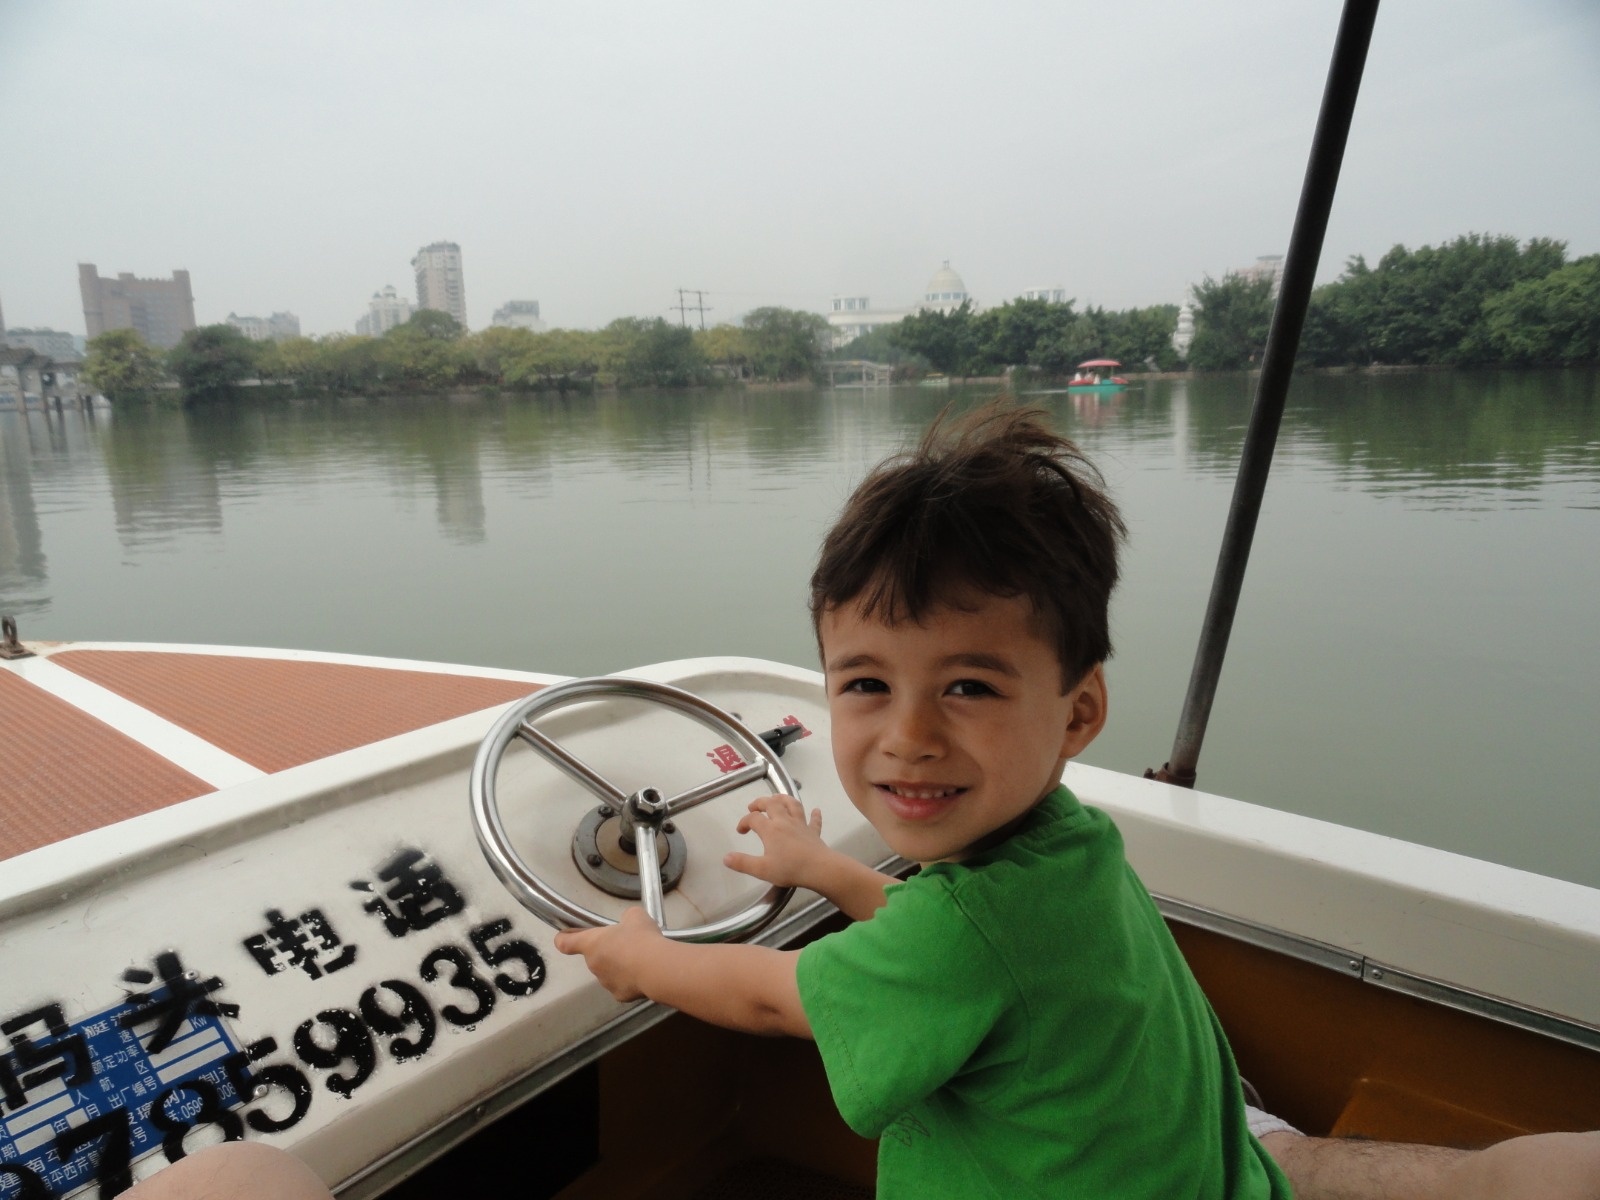
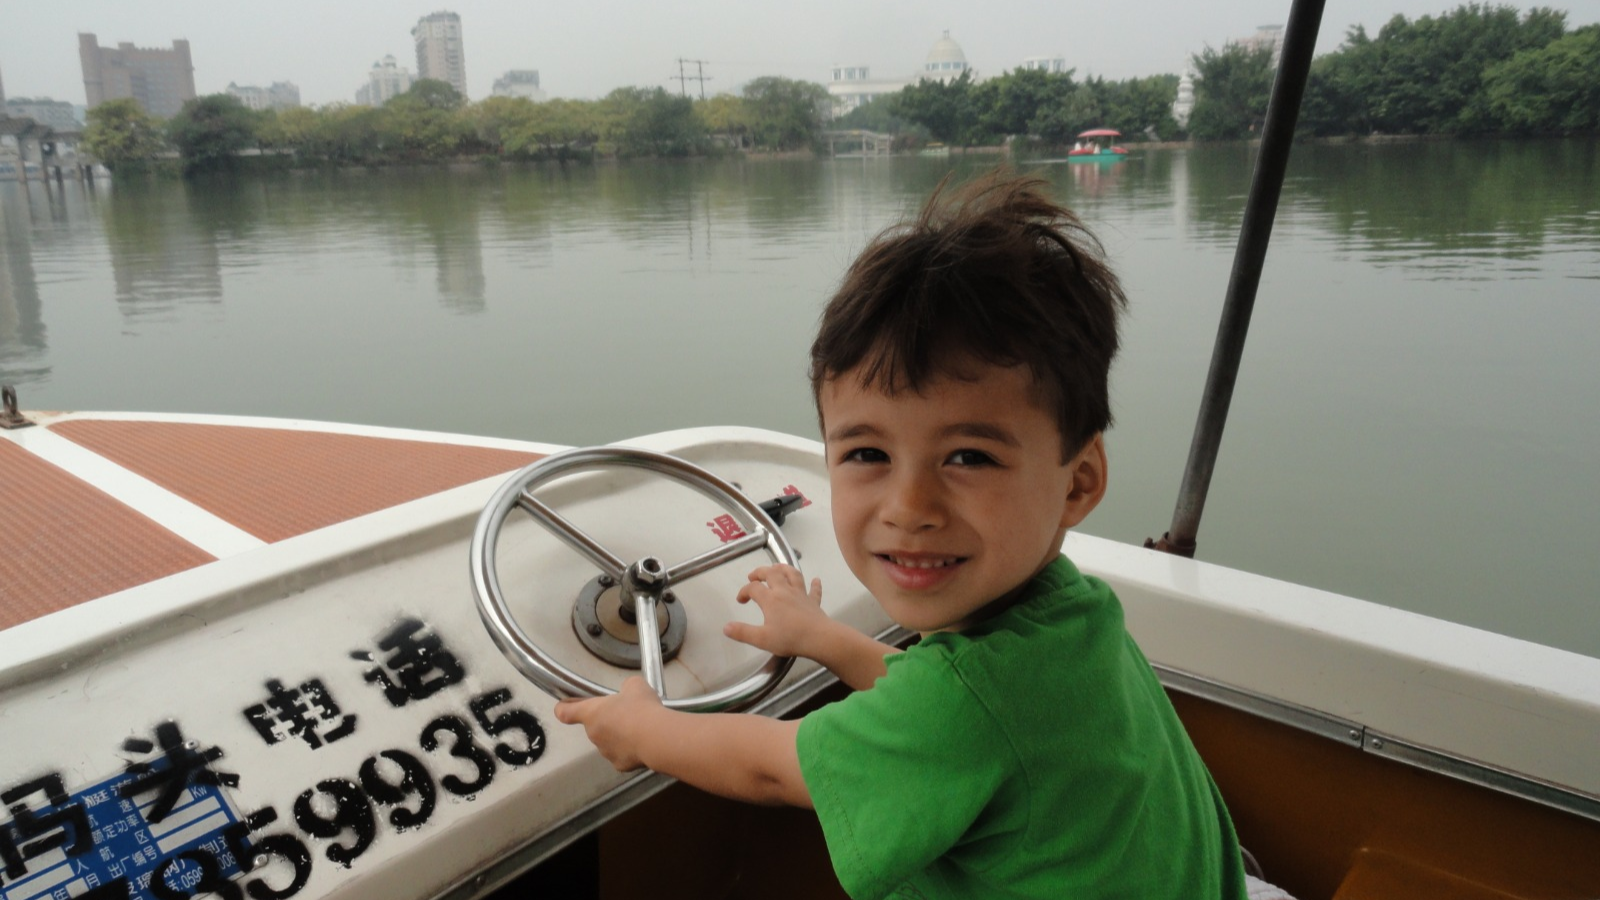
About Me Paragraphs

diff --git a/me.html b/me.html
@@ -161,7 +161,7 @@
 										<div class="col-8">
 											<h4>About Me</h4>
 											<p class="unjustify-text">
-												The man behind the mechanical engineer.
+												The man behind the mechanical engineer. <br> The philisophy behind <span style="font-style: italic;">the Paul.</span>
 											</p>
 										</div>
 									</a>
@@ -173,7 +173,7 @@
 										<div class="col-8">
 											<h4>Education</h4>
 											<p class="unjustify-text">
-												University of Edinburgh & University of Minnesota
+												The myriad of small choices that defined my path.
 											</p>
 										</div>
 									</a>
@@ -202,18 +202,24 @@
 						<header>
 							<div class="quote-hover-area">
 								<div class="quote-text-wrapper">
-								<a id="me" class="quote-link">
-									"It's a truly lucky man who knows what he wants to do in this world. Cause that man will never work a day in his life." <span class="quote-author">-Carroll Shelby</span>
-								</a>
+									<a id="me" class="quote-link">
+										"It's a truly lucky man who knows what he wants to do in this world. Cause that man will never work a day in his life." <span class="quote-author">-Carroll Shelby</span>
+									</a>
 								</div>
 
-								<img 
-								src="images/Me/Me/boat1.png" 
-								class="quote-vignette-image" 
-								alt="Quote background"
-								>
+								<img src="images/Me/Me/boat1.png" class="quote-vignette-image">
 							</div>
 						</header>
+
+						<p class="unjustify-text">
+							I've always been fueled by passion. When I was a kid, I built a 15-foot long boat out of duct tape and PVC pipe; 
+							I had a scale model of the Minneapolis airport on the floor of my living room with a suite of small model Delta aircraft to match;
+							and I had a prized Mustang hotwheels model that I adored with all my heart. Ten year old me wanted to be an airline pilot, a professional racecar driver, and an olympic sailor all at the same time while also being a historian, a film director, an entrepreneur, a computer scientist, a songwriter, and a time-travelling roman centurion.
+							<br><br>
+							Ten years later, my goals may have changed, but my passion has not.
+							<br>
+
+						</p>
 
 						<article id="main">
 
@@ -234,28 +240,92 @@
 							</div>
 
 
-							<p class="unjustify-text">
-								I study mechanical engineering at the University of Edinburgh and studied computer science, mechanical engineering, and aerospace engineering at the University of Minnesota for four years for my secondary school education. Finally, I am also an amateur cinematographer, avid motorsports driver, self-taught pianist and guitarist, and 70's classic rock enthusiast.
-								<br>
 
+							<header>
+								<div class="quote-hover-area">
+									<div class="quote-text-wrapper">
+										<a id="me" class="quote-link">
+											"Our lives are the sum of our choices." <span class="quote-author"><br>-Eugene Kittridge</span>
+										</a>
+									</div>
+
+									<img src="images/Me/Me/boat2.jpg" class="quote-vignette-image">
+								</div>
+							</header>
+
+							<p class="unjustify-text">
+								
+								
+
+							</p>
+							
+							
+							<header>
+								<div class="quote-hover-area">
+									<div class="quote-text-wrapper">
+										<a id="me" class="quote-link">
+											"Only you invent the future that you want to face." <span class="quote-author"><br>-Fleetwood Mac</span>
+										</a>
+									</div>
+
+									<img src="images/Me/Me/car2.jpeg" class="quote-vignette-image">
+								</div>
+							</header>
+
+							<p class="unjustify-text">
+								
+								
+								
 
 							</p>
 
 							<header>
 								<div class="quote-hover-area">
 									<div class="quote-text-wrapper">
-									<a id="me" class="quote-link">
-										<br>"Our lives are the sum of our choices." <span class="quote-author"><br>-Eugene Kittridge</span>
-									</a>
+										<a id="me" class="quote-link">
+											"I started subtracting things from my life, and started getting good at the things that I kept." <span class="quote-author"><br>-Hans Zimmer</span>
+										</a>
 									</div>
 
-									<img 
-									src="images/Me/Me/boat2.jpg" 
-									class="quote-vignette-image" 
-									alt="Quote background"
-									>
+									<img src="images/Me/Me/plane1.jpg" class="quote-vignette-image">
 								</div>
 							</header>
+
+							<p class="unjustify-text">
+								Life moves pretty fast. If you don't stop and look around once in a while, you could miss it.
+								<br><br>
+								All my life, I've taken pride in being independent and different. I didn't go to regular school, and I didn't always follow the well-trodden corridors most people did. I took up competitive sailing, developed a taste for old-fashioned music, and decided to spend two years earning my pilot's licence simply because I enjoyed it and wanted to.
+								<br><br>
+								I don't use social media or participate in the endless stream of online viral trends. I don't think it's a good use of my time to constantly try to keep up with what's popular or to stay knowledgeable about things people might expect me to know. I'd rather spend that time on things I genuinely care about.
+								<br><br>
+								I vividly remember the moment I became interested in older music. My parents were watching cable TV, and there was a news segment about the song <span style="font-style: italic;">House of the Rising Sun</span> by The Animals. Later, I decided to listen to it. I remember thinking, “Hey, I actually really like this song. Too bad I can't like this kind of music”. And then, almost immediately, I realised how strange that thought was. Why couldn't I? In that moment, it hit me that I had complete freedom to like whatever I liked, not just whatever happened to be popular at the time. Since then, my classic music playlist has grown to over 600 songs spanning 50 playtime hours.
+
+							</p>
+
+							<header>
+								<div class="quote-hover-area">
+									<div class="quote-text-wrapper">
+										<a id="me" class="quote-link">
+											"I've never once lived my life out of convenience." <span class="quote-author"><br>-Paul Wang</span>
+										</a>
+									</div>
+
+									<img src="images/Me/Me/car1.jpg" class="quote-vignette-image">
+								</div>
+							</header>
+
+							<p class="unjustify-text">
+								Life is not a task to optimise. It doesn't need to be streamlined for highest productivity or least effort. 
+								I talk a lot about dreaming big and not giving up, but I also try to remember to slow down and actually enjoy life. I think there's real value in things that might look “meaningless” from the outside.
+								<br><br>
+								Everything from my favourite movies to my music taste to the way I dress reflects that core value of not trying to fit in, but instead doing what I enjoy. I could just shuffle the Spotify Top 40 or binge short-form videos, which would definitely be easier. Instead, I'll listen all the way through a Led Zeppelin or Journey album, or I'll sit down and watch a Denis Villeneuve film and really understand and analyse its meaning. Sure, I could have used Wix or Squarespace to make this website, yet here I sit with a CSS file 6,000 lines long.
+								<br><br>
+								Recently, it feels like fewer people have hobbies, or at least fewer people talk about them openly. I don't believe in being nonchalant or trying to seem cool by not caring. I'd much rather be passionate, even a little eccentric, about the things that interest me. So when I come home and decide to learn about Roger Deakins' method of lighting a movie scene, it might not be the most convenient or productive thing to do, but I do it because I'm genuinely interested. And in its own way, that shapes my interests and my character.
+								<br><br>
+								On a bigger scale, my choice to move to another continent and leave everything behind, the comfort and convenience of my home and friends, speaks to my philisophy that doing something because it's the easiest doesn't make it the best. 
+								<br><br>
+								When it comes down to it, I always take the scenic route home.
+							</p>
 
 							
 							<hr />
@@ -313,7 +383,7 @@
 										</div>
 
 										<p class="project-description-body">
-											– 3 Dean’s List Honours, LPE: Portuguese Language Proficiency <br>
+											– 3 Dean's List Honours, LPE: Portuguese Language Proficiency <br>
 											– Completed 17 university classes with 70 US credits. Normal university
 											classes taken full time as secondary school credit. <br>
 											– Followed the UMN Mechanical Engineering & Computer Science degree tracks,
@@ -437,7 +507,7 @@
 												<p class="unjustify-text">
 													I had the pleasure of working with Paul Wang during the 2024–2025 Formula Student season at the University of Edinburgh, where I served as Technical Director and Paul worked as a Vehicle Dynamics Engineer and later as a <span class="rec-emph">lead suspension designer</span>. Edinburgh University Formula Student (EUFS) designs and manufactures single-seater open-wheel race cars and is the current long-standing champion in the FS-AI class as of this year, 2025.<br><br>
 
-													Paul made a huge contribution to our growing Vehicle Dynamics team. He was responsible for modelling and designing suspension assemblies in Simscape and SolidWorks, as well as developing key infrastructure by creating an in-house suspension geometry optimiser from scratch using Simscape multibodies. His optimiser, paired with our in-house lap time simulator, enabled us to validate and quantify the performance benefits of multiple suspension geometries. His work was a key influence on our final designs presented at FSUK 2025, <span class="rec-responsibility">where the judges commended the depth and robustness of his models</span>, <span class="rec-emph">a contribution that helped secure the team’s 6th place finish</span>. He was the youngest member of the design team.<br><br>
+													Paul made a huge contribution to our growing Vehicle Dynamics team. He was responsible for modelling and designing suspension assemblies in Simscape and SolidWorks, as well as developing key infrastructure by creating an in-house suspension geometry optimiser from scratch using Simscape multibodies. His optimiser, paired with our in-house lap time simulator, enabled us to validate and quantify the performance benefits of multiple suspension geometries. His work was a key influence on our final designs presented at FSUK 2025, <span class="rec-responsibility">where the judges commended the depth and robustness of his models</span>, <span class="rec-emph">a contribution that helped secure the team's 6th place finish</span>. He was the youngest member of the design team.<br><br>
 
 													<span class="rec-workethic"> What stood out most about Paul was his initiative and reliability.</span> He demonstrated strong research skills, resourcefulness, and initiative that accelerated his progression to a lead designer. <span class="rec-workethic">I worked with him on multiple projects, and he was consistently the first to offer support whenever it was needed, regardless of the task. On one occasion, he came directly from a ten-hour flight to the lab to assist when we were short-handed for an urgent tyre repair.</span> His ability to work well both independently and collaboratively makes him well suited for any engineering position.<br><br>
 													
@@ -550,16 +620,16 @@
 													The students were required to participate in current events and read a large amount of text every
 													night. I am confident Paul completed the readings based on his thoughtful comments in class.
 													Further, students wrote a policy memo summarizing the key findings in the 2018 National Cyber
-													Strategy/President Biden’s Executive Order. Paul covered all of the key areas and produced a
+													Strategy/President Biden's Executive Order. Paul covered all of the key areas and produced a
 													document that any government office would be grateful to receive. My only critique would be for
 													Paul to include a bit more detail in each of the key areas covered in the strategy documents, as this
 													is valuable information for consumers. However, this is a relatively minor critique.<br><br>
 													On his final project, which was a group profile on APT 41, Paul performed exceptionally well. He
-													and his partners’ presentation showed that he knew the key areas to focus on by incorporating
-													class themes. He provided a verbal brief of the report’s findings, which was well structured and
-													very informative. Paul also provided great sources in his written profile and highlighted the group’s
+													and his partners' presentation showed that he knew the key areas to focus on by incorporating
+													class themes. He provided a verbal brief of the report's findings, which was well structured and
+													very informative. Paul also provided great sources in his written profile and highlighted the group's
 													strategic goals and tactical methods. <span class="rec-emph">Even more, Paul constructed original graphics highlighting the
-													threat actor’s tactical movements within a victim’s network,</span> <span class="rec-responsibility">which I have never seen a student do
+													threat actor's tactical movements within a victim's network,</span> <span class="rec-responsibility">which I have never seen a student do
 													before.</span> Overall, the report, presentation and brief were very substantive and of <span class="rec-responsibility">the best in the class.</span><br><br>
 													It was a pleasure to have Paul in class. He is very intelligent and <span class="rec-workethic">has great drive and determination.
 													I am confident he will excel at anything he puts his mind to both academically and professionally.</span>
@@ -593,7 +663,7 @@
 												<p class="unjustify-text">
 													It is with my strongest possible recommendation that I write this letter in support of Paul Wang, one of the most standout and memorable students I have taught in my career. From the very beginning of the course, he distinguished himself through an unusual combination of intellectual depth, curiosity, and maturity <span class="rec-responsibility">well beyond that of a typical 17 year old high school student in a second year university class.</span><br><br>
 													Paul possesses an exceptional aptitude for physics and mathematics, paired with a genuine desire to understand underlying principles rather than merely achieving correct answers. For example, when I was teaching a chapter on Newtonian mechanics, Paul asked how frictional forces vary along a parabolic-shaped ramp, <span class="rec-responsibility">asking questions that extended beyond the scope of the syllabus</span> and into the realm of analytical modeling. His questions consistently demonstrated a level of conceptual thinking more commonly seen in upper-division engineering students.<br><br>
-													<span class="rec-workethic">Equally (or even more) impressive is Paul’s work ethic.</span> He approaches coursework with discipline and dedication, often revisiting tricky problems multiple times to refine his understanding. In laboratory sessions, he consistently arrived having already reviewed the experiment in detail and often identified possible sources of hiccups before data collection even began. One time, Paul calculated an alternate data analysis and conclusion that explored the implications of having extra resistance in an electrical circuit, then clearly explained and justified his findings to his lab partners, showing that extra resistance in the system was to blame.<br><br>
+													<span class="rec-workethic">Equally (or even more) impressive is Paul's work ethic.</span> He approaches coursework with discipline and dedication, often revisiting tricky problems multiple times to refine his understanding. In laboratory sessions, he consistently arrived having already reviewed the experiment in detail and often identified possible sources of hiccups before data collection even began. One time, Paul calculated an alternate data analysis and conclusion that explored the implications of having extra resistance in an electrical circuit, then clearly explained and justified his findings to his lab partners, showing that extra resistance in the system was to blame.<br><br>
 													Paul is also an outstanding collaborator. He treats his peers with respect and generosity, consistently engaging in discussion, comparing approaches, and offering assistance without being asked. <span class="rec-leadership">His leadership is quiet but effective</span>, by improving group performance through clarity of thought and patience rather than dominance. <br><br>
 													Beyond his academic strengths, <span class="rec-leadership">Paul brings warmth and personality to the classroom. He engages comfortably with peers and faculty alike</span>, combining intellectual seriousness with genuine curiosity and interpersonal ease. I recall a conversation in which he asked in Portuguese about my background in Brazil, and seamlessly transitioned into discussing his own experience in Brazil, demonstrating both cultural curiosity and an ease in personal interaction that is <span class="rec-responsibility">rare among students of his age.</span><br><br>
 													Paul Wang is precisely the kind of student who <span class="rec-leadership">elevates an academic community</span>. He is <span class="rec-workethic">intellectually driven, resilient in the face of challenge</span>, and guided by genuine humility and kindness. I am confident that he will excel in any rigorous engineering or scientific program and will continue to distinguish himself through both achievement and character.<br><br>

diff --git a/assets/css/main.css b/assets/css/main.css
@@ -1982,6 +1982,7 @@ footer {
 	aspect-ratio: 4/3 !important;
 	object-fit: cover !important;
 	object-position: center !important;
+	border-radius: 2px;
 }
 
 .image-fourpane .image-description {
@@ -6445,9 +6446,12 @@ body {
 	display: block;
 	color: #00f583;
 	font-size: 2em;
-	text-decoration: none;
 	cursor: pointer;
 	pointer-events: none;
+	text-decoration: none !important;
+    border: none !important;
+    box-shadow: none !important;
+    outline: none !important;
 }
 
 .quote-author {
